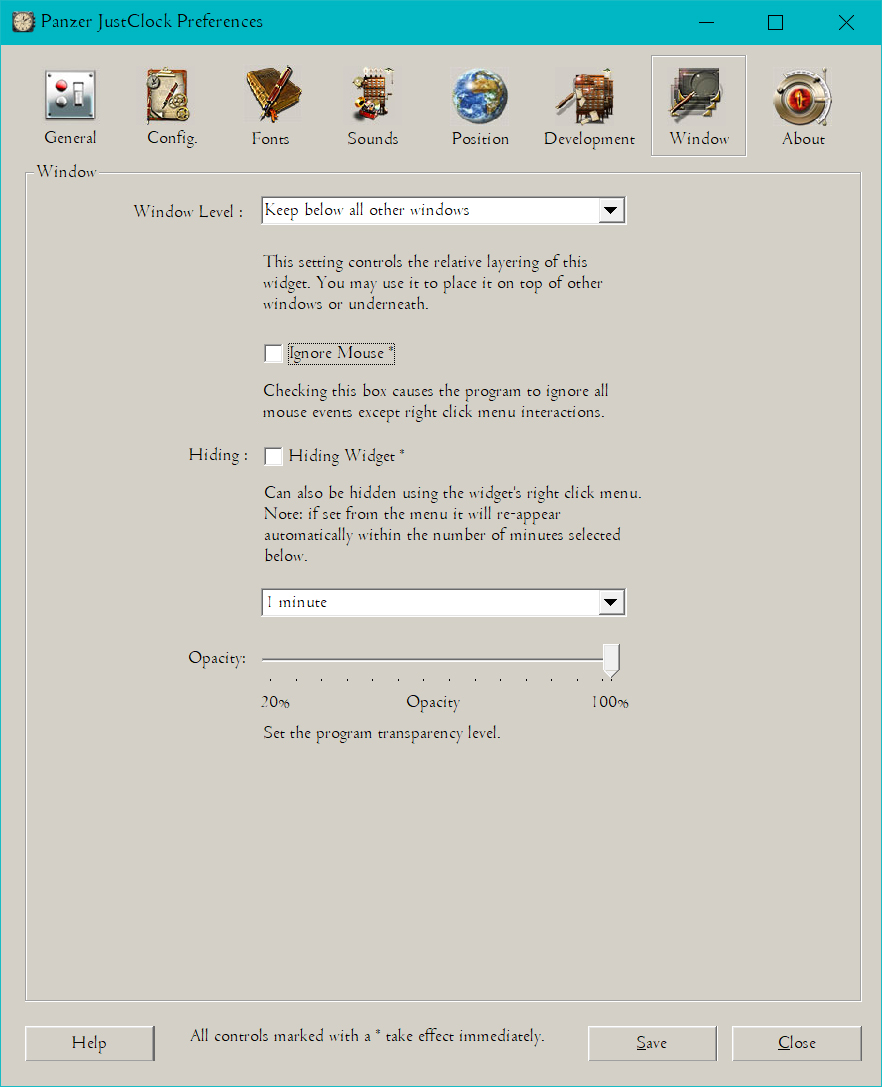
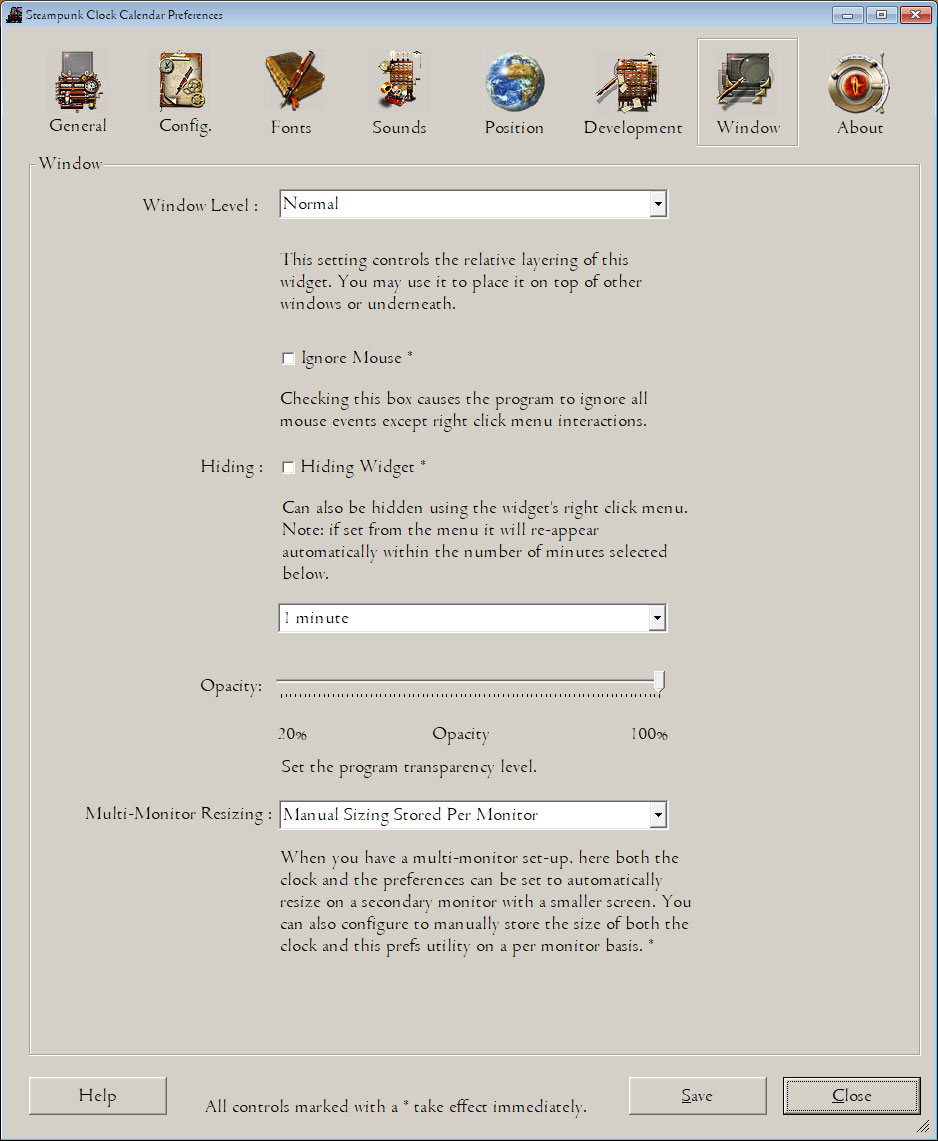
update help with regard to automatic resizing

Changed region(s): [[0.0, 0.0, 1.0, 1.0], [0.0918, 0.6375, 0.7347, 0.85], [0.2143, 0.5768, 0.2755, 0.6072]]

diff --git a/help/Steampunk clock calendar.html b/help/Steampunk clock calendar.html
@@ -588,7 +588,7 @@ placed somewhere locally - and the VB6 IDE is installed, this menu option will
 launch the VB6 IDE and the program will appear ready for editing.<br />
 <span style="font-weight: bold;"><br />
 </span>
-<img alt="The Window Prefs pane" src="prefs-window.jpg" style="width: 882px; height: 1087px;" title="The Window Prefs pane" /><br />
+<img alt="The Window Prefs pane" src="prefs-window.jpg" title="The Window Prefs pane" /><br />
 <span style="font-weight: bold;">Fig 13. The Window Prefs pane.<br />
 <br />
 </span>
@@ -611,6 +611,33 @@ automatically within the number of minutes selected below.<br />
 <br />
 <span style="font-weight: bold;">Opacity: </span>Changing the opacity requires a 
 hard restart, after which the reduced opacity will be displayed.<br />
+<br />
+</span>
+<span style="color: rgb(0, 0, 0); font-family: &quot;Times New Roman&quot;; font-size: medium; font-style: normal; letter-spacing: normal; orphans: 2; text-align: left; text-indent: 0px; text-transform: none; white-space: normal; widows: 2; word-spacing: 0px; display: inline ! important; float: none;" class="auto-style1">
+Multi-Monitor Resizing</span><span style="color: rgb(0, 0, 0); font-family: &quot;Times New Roman&quot;; font-size: medium; font-style: normal; font-weight: 400; letter-spacing: normal; orphans: 2; text-align: left; text-indent: 0px; text-transform: none; white-space: normal; widows: 2; word-spacing: 0px; display: inline ! important; float: none;"><span style="font-weight: bold;">: </span>
+This option will only appear on multi-monitor systems. On multi-monitor systems, 
+this dropdown has three choices that affect the automatic sizing of the main 
+clock and the preference utility. <br />
+<br />
+<strong>Disabled</strong> - The disabled option means that neither form will be 
+resized automatically at any time. This may result in some weird sizing when 
+dragging a part of the program from a high DPI monitor to a smaller size 
+monitor. The top and bottom may appear of the screen. <br />
+<br />
+<strong>Automatic Resizing </strong>- Causes the clock/prefs components to 
+resize in proportion to each other as you drag each from one monitor to another.
+<br />
+<br />
+<strong>Manual Sizing Stored Per Monitor</strong> - When you enable this option, 
+it will sample the current size and store it for both the primary and secondary 
+monitors. As you drag the program from one monitor to another it will resize 
+according to the sizes you have stored.<br />
+<br />
+Note:&nbsp; To resize the main clock you mouse hover over the 
+widget itself and press the CTRL key in combination with the mouse scrollwheel, UP/DOWN to resize.&nbsp;To 
+resize the preference utility you drag the bottom right corner to the chosen 
+size.<br />
+<br />
 <br />
 </span>
 <img alt="" src="prefs-about.jpg" style="width: 882px; height: 1087px;" /><span style="color: rgb(0, 0, 0); font-family: &quot;Times New Roman&quot;; font-size: medium; font-style: normal; font-weight: 400; letter-spacing: normal; orphans: 2; text-align: left; text-indent: 0px; text-transform: none; white-space: normal; widows: 2; word-spacing: 0px; display: inline ! important; float: none;"><br />
